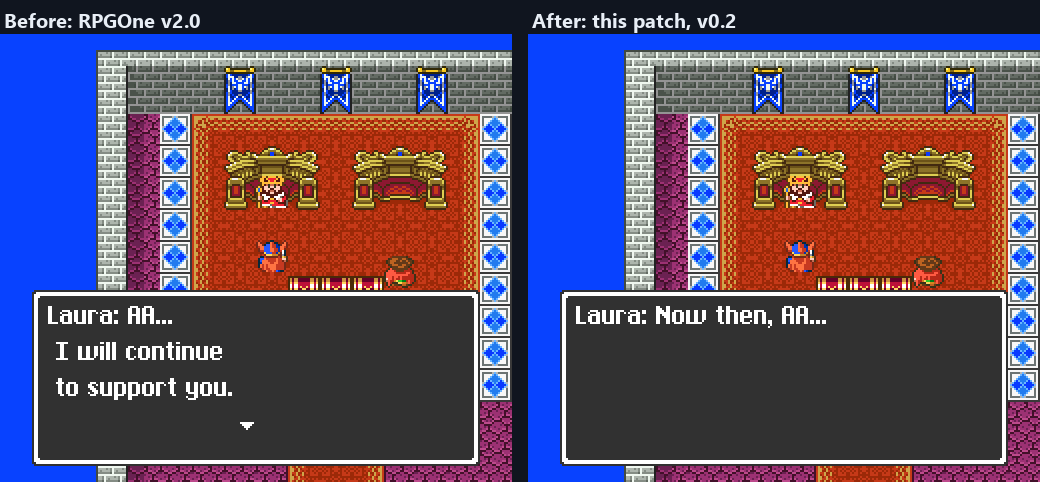
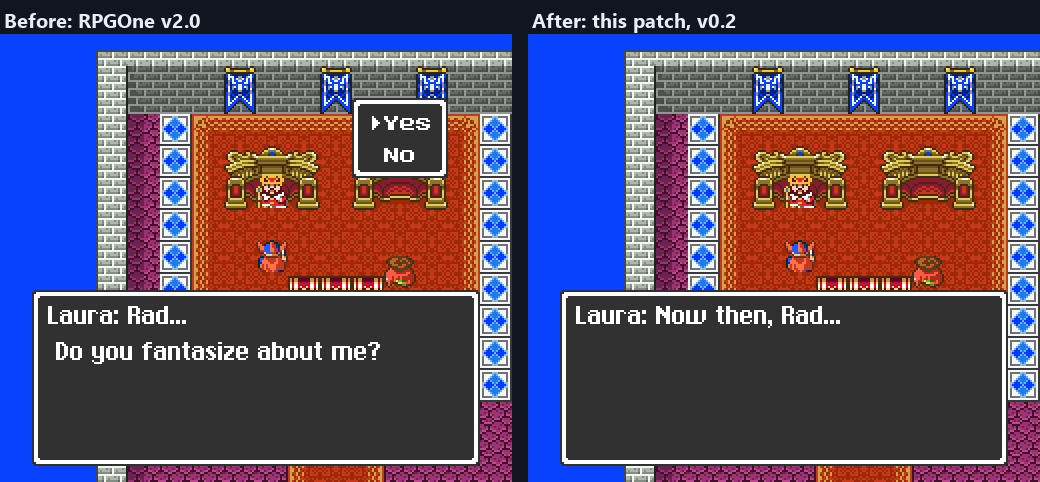
README screenshots: hero named Rad, finished pages
Six screenshots retaken with the hero named Rad (the prince Rolando) and
only fully typed pages. The Leaf image now runs the speech from its real
start: with these names RPGOne v2.0 goes black after "not to worry." and
hangs, while this patch goes on to "Rolando: Now let's go!", so it shows
three panels. The farewell and Leaf descriptions match what the
screenshots show.

diff --git a/README.md b/README.md
@@ -28,7 +28,7 @@ else I changed is code, pointers, control bytes, or which name a line prints.
 Each fix below says what you see, why it happens, and what I changed. "Both flavors"
 means the DQ and DW versions of the translation; a few bugs exist in only one of them.
 
-The screenshots show the DQ flavor in Mesen 2: RPGOne v2.0 with mziab's fix on the left,
+The screenshots show the DQ flavor in Mesen 2, with the hero named Rad: RPGOne v2.0 with mziab's fix on the left,
 this patch on the right. Some were taken with a test build that starts the message directly,
 so the scene around the text is not always where it happens in the game.
 
@@ -36,7 +36,7 @@ so the scene around the text is not always where it happens in the game.
 
 **What you see.** After the Prince of Cannock falls ill at the Beran inn, feeding him
 the Leaf of the World Tree starts his recovery speech, then the text box loops forever
-and the game has to be reset. Reviews tied it to his name being longer than 4 letters.
+or the screen goes black, and the game has to be reset. Reviews tied it to his name being longer than 4 letters.
 
 **Why.** The game builds each message into a 256-byte buffer and draws it with an
 8-bit index (`INC $C9` at `$00:B22F` and elsewhere), so anything past byte 255 wraps
@@ -56,7 +56,7 @@ break after "has recovered!", and shifted the text between the old and new split
 five bytes. Nothing outside the message moves. With 8-letter names for everyone, the
 two parts now come to at most 168 and 149 bytes.
 
-![Before and after: in RPGOne v2.0 the recovery speech's page ends in stray characters and the speech loops; with this patch the same page reads cleanly and the speech goes on to "Now let's go!"](screenshots/leaf-softlock.png)
+![Before and after, with the hero named Rad and the prince Rolando: in RPGOne v2.0 the screen goes black after "It was wrong of me to tell you not to worry." and the game hangs; with this patch the speech goes on to "Rolando: Now let's go!"](screenshots/leaf-softlock.png)
 
 ### Dragon Quest I: the Dragonlord's offer loops (both flavors)
 
@@ -173,7 +173,7 @@ flavor has it right.
 
 **What I changed.** Removed it.
 
-![Before and after: "I hope that you are safe, 4AA." in RPGOne v2.0, "I hope that you are safe, AA." with this patch](screenshots/princess-love.png)
+![Before and after: "I hope that you are safe, 4Rad." in RPGOne v2.0, "I hope that you are safe, Rad." with this patch](screenshots/princess-love.png)
 
 ### Dragon Quest I: the King's victory speech is skipped (both flavors)
 
@@ -191,8 +191,9 @@ to the speech.
 ### Dragon Quest I: the princess says goodbye twice (both flavors)
 
 **What you see.** When you carry the princess back to the King, she gives you the
-Princess's Love and says goodbye, then says goodbye again in other words ("I will
-continue to support you") and the kiss jingle plays a second time.
+Princess's Love and says goodbye, then keeps talking with one of the lines she has for
+later (such as "I will continue to support you" or "Do you fantasize about me?"), and
+the kiss jingle can play again.
 
 **Why.** In the Japanese script her farewell ends the message. In RPGOne its last line
 ends with a wait instead of an end (`$01:C057` DQ, `$01:C07D` DW), so the game keeps
@@ -202,7 +203,7 @@ on its own through another branch.
 **What I changed.** That one byte, so the message ends where the Japanese one does. The
 other branch still reaches those lines, as in the Japanese game.
 
-![Before and after: in RPGOne v2.0 the princess goes on to a second farewell ("I will continue to support you"); with this patch her farewell ends at "Now then, AA..."](screenshots/princess-farewell.png)
+![Before and after: in RPGOne v2.0 the princess keeps talking after her farewell ("Rad... Do you fantasize about me?"); with this patch her farewell ends at "Now then, Rad..."](screenshots/princess-farewell.png)
 
 ### Dragon Quest I: the title screen (both flavors)
 
